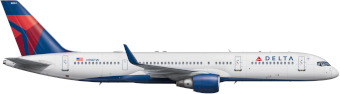
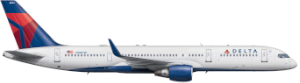
reworked iarcraft proportions

diff --git a/main.py b/main.py
@@ -7,10 +7,13 @@ BLACK = (0, 0, 0)
 WHITE = (255, 255, 255)
 YELLOW = (255, 255, 0)
 RED = (255, 0, 0)
-SKY_BLUE = (95, 165, 228)
+SKY_BLUE = (69, 165, 228)
+
+# --- Objects drawn on standard 1440p (2K) resolution ---
 WIDTH = 2560
 HEIGHT = 1440
-TITLE = "Flight 16"
+
+TITLE = "Busy Skies"
 
 
 class Player(pygame.sprite.Sprite):
@@ -142,7 +145,7 @@ def main():
     done = False
     clock = pygame.time.Clock()
     died = False
-    traffic_count = 5
+    traffic_count = 10
     health_points = 1
     vertical_speed = 0
     game_font = pygame.font.SysFont('Calibri', 20)
@@ -201,7 +204,7 @@ def main():
         all_sprites_group.draw(screen)
 
         # Time survived
-        score = game_font.render(f"Time survived: {clock}", True, WHITE)
+        score = game_font.render(f"Current FPS: {clock}", True, WHITE)
         screen.blit(score, (10, 10))
 
         # Lives remaining
